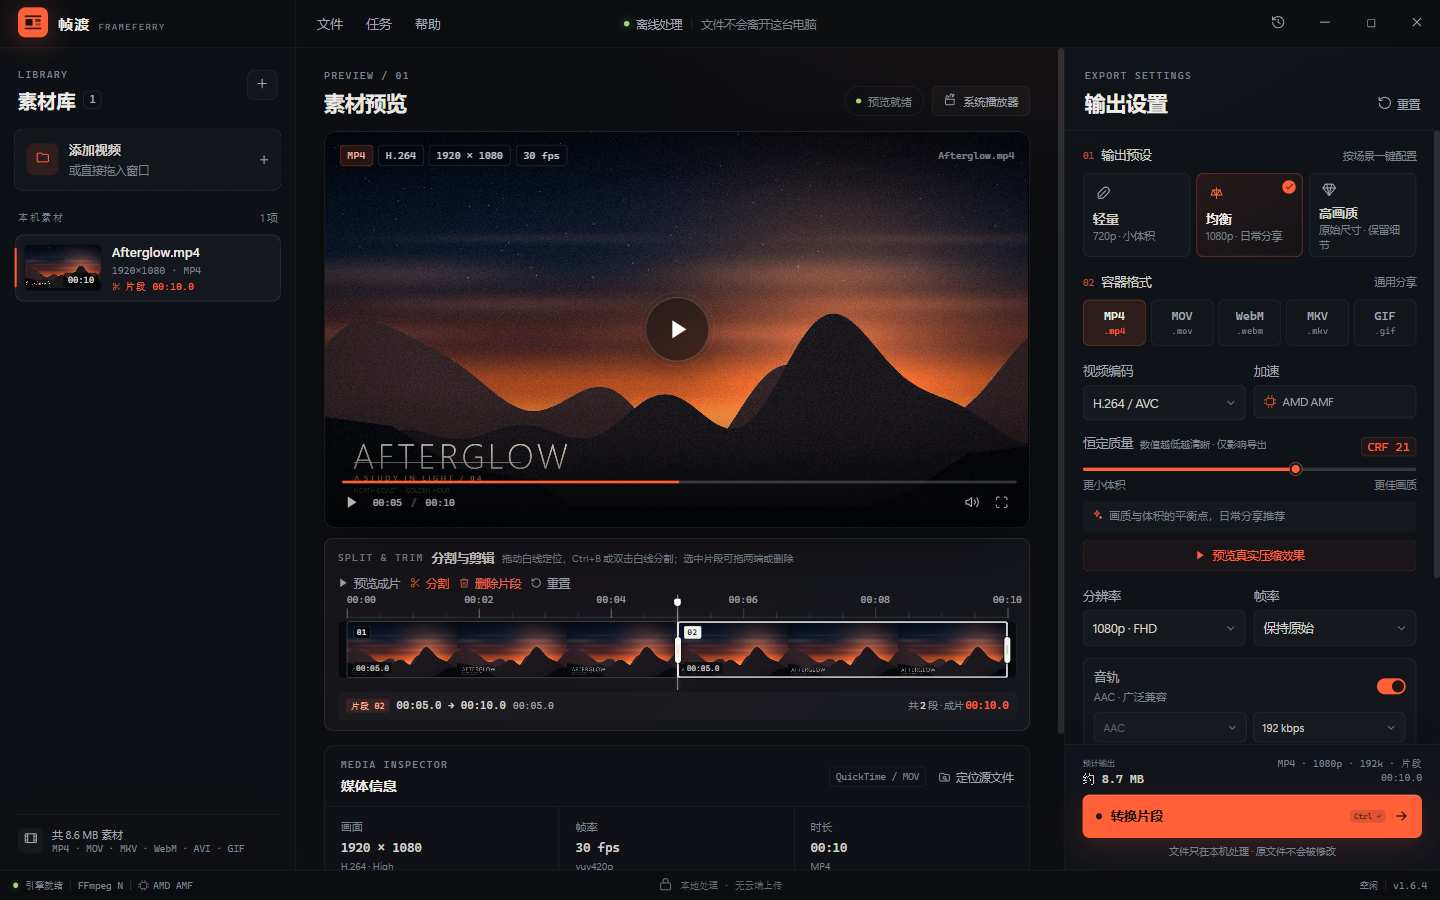
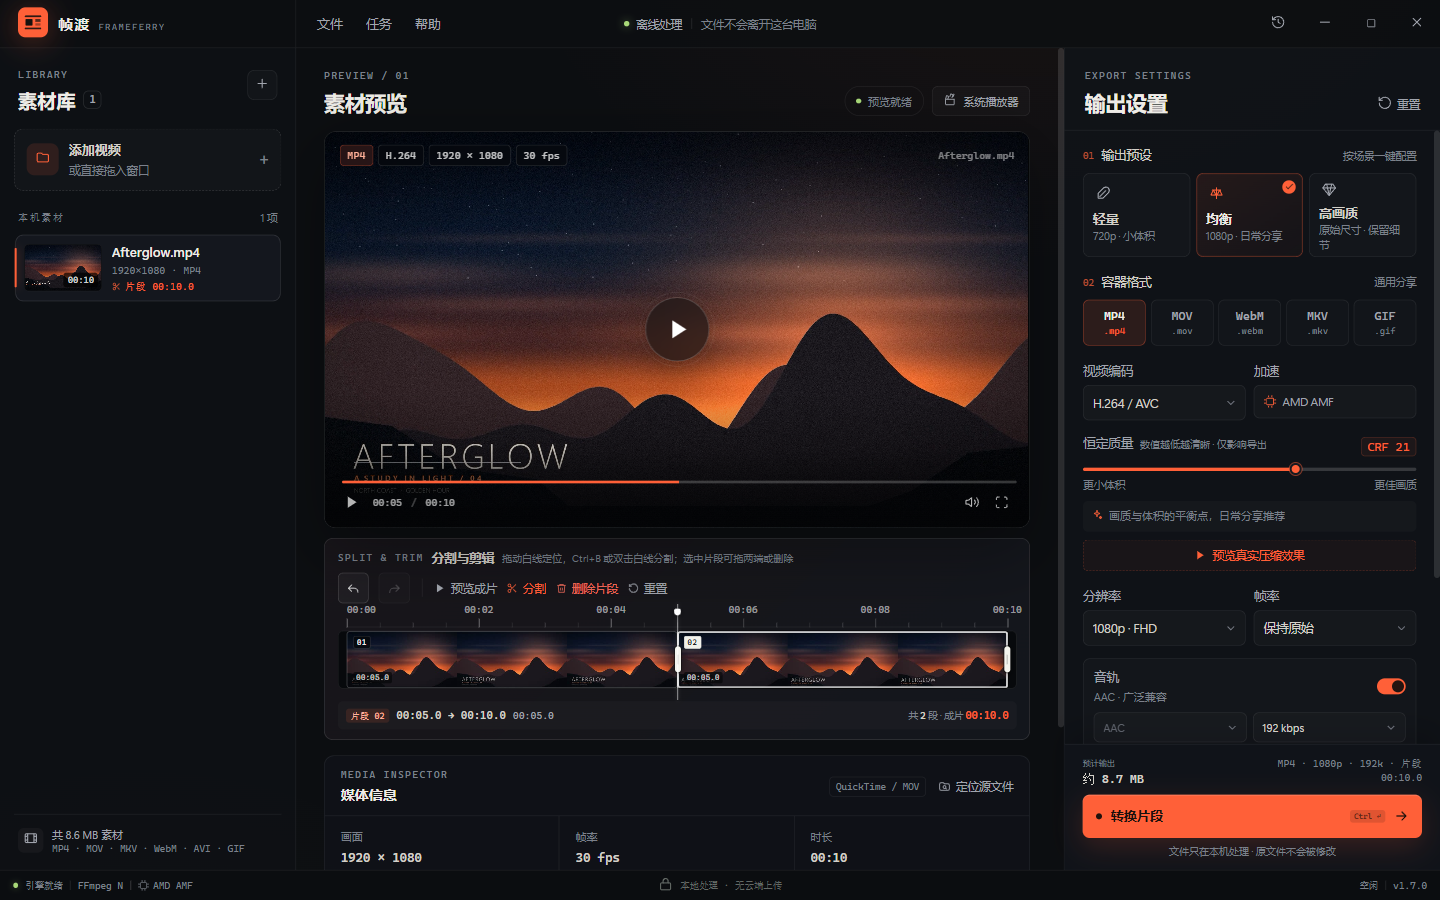
feat: 剪辑时间轴支持撤销重做
分割、删除、重置、拖拽裁剪进入每素材独立的 60 步历史；工具栏增加撤销/重做按钮，支持 Ctrl+Z / Ctrl+Shift+Z / Ctrl+Y。版本提升到 v1.7.0。

diff --git a/renderer/app.js b/renderer/app.js
@@ -19,6 +19,8 @@ const ICONS = {
   zap: '<path d="M13 2 4 14h7l-1 8 9-12h-7z"/>',
   hardDrive: '<rect x="2" y="4" width="20" height="16" rx="2"/><path d="M6 16h.01M10 16h.01M2 12h20"/>',
   rotate: '<path d="M3 12a9 9 0 1 0 3-6.7L3 8"/><path d="M3 3v5h5"/>',
+  undo: '<path d="m9 7-5 5 5 5"/><path d="M4 12h9a6 6 0 0 1 6 6v1"/>',
+  redo: '<path d="m15 7 5 5-5 5"/><path d="M20 12h-9a6 6 0 0 0-6 6v1"/>',
   sparkles: '<path d="m12 3-1.5 4.5L6 9l4.5 1.5L12 15l1.5-4.5L18 9l-4.5-1.5z"/><path d="m19 14-.8 2.2L16 17l2.2.8L19 20l.8-2.2L22 17l-2.2-.8z"/>',
   arrowRight: '<path d="M5 12h14M13 6l6 6-6 6"/>',
   history: '<path d="M3 12a9 9 0 1 0 3-6.7L3 8"/><path d="M3 3v5h5M12 7v5l3 2"/>',
@@ -731,6 +733,67 @@ function paintTrimPlayhead() {
   if (trimPlayhead) trimPlayhead.style.left = `${ratio * 100}%`
 }
 
+function ensureClipHistory(file) {
+  if (!file) return { undo: [], redo: [] }
+  if (!file.clipHistory || !Array.isArray(file.clipHistory.undo) || !Array.isArray(file.clipHistory.redo)) {
+    file.clipHistory = { undo: [], redo: [] }
+  }
+  return file.clipHistory
+}
+
+function clipStateSnapshot(file) {
+  const clips = Array.isArray(file.clips) && file.clips.length ? file.clips : ensureClips(file)
+  return {
+    clips: clips.map((clip) => ({ id: clip.id, start: clip.start, end: clip.end })),
+    selectedClipId: file.selectedClipId
+  }
+}
+
+function pushClipHistory(file) {
+  const history = ensureClipHistory(file)
+  history.undo.push(clipStateSnapshot(file))
+  if (history.undo.length > 60) history.undo.shift()
+  history.redo = []
+}
+
+function restoreClipState(file, state) {
+  file.clips = state.clips.map((clip) => ({ ...clip }))
+  file.selectedClipId = state.selectedClipId
+  const selected = ensureClips(file).find((clip) => clip.id === file.selectedClipId)
+  const video = $('#preview-video')
+  if (selected && video) {
+    video.pause()
+    try { video.currentTime = selected.start } catch {}
+    ui.currentTime = selected.start
+  }
+  renderTrimUI()
+  renderDock()
+  renderSourceRail()
+  paintTrimPlayhead()
+}
+
+function undoClip() {
+  const file = activeFile()
+  if (!file) return
+  const history = ensureClipHistory(file)
+  if (!history.undo.length) return
+  const current = clipStateSnapshot(file)
+  const state = history.undo.pop()
+  history.redo.push(current)
+  restoreClipState(file, state)
+}
+
+function redoClip() {
+  const file = activeFile()
+  if (!file) return
+  const history = ensureClipHistory(file)
+  if (!history.redo.length) return
+  const current = clipStateSnapshot(file)
+  const state = history.redo.pop()
+  history.undo.push(current)
+  restoreClipState(file, state)
+}
+
 function timelineRulerHtml(duration) {
   if (!(duration > 0)) return ''
   const target = duration / 6
@@ -767,6 +830,7 @@ function renderTrimUI() {
     return
   }
   const clips = ensureClips(file)
+  const history = ensureClipHistory(file)
   const duration = Number(info.duration) || 0
   const selectedIndex = Math.max(0, clips.findIndex((clip) => clip.id === file.selectedClipId))
   const selected = clips[selectedIndex] || clips[0]
@@ -816,6 +880,9 @@ function renderTrimUI() {
         <span class="trim-head-hint">拖动白线定位，Ctrl+B 或双击白线分割；选中片段可拖两端或删除</span>
       </div>
       <div class="trim-toolbar">
+        <button class="trim-history" data-clip-action="undo" title="撤销 (Ctrl+Z)" aria-label="撤销" ${history.undo.length ? '' : 'disabled'}>${icon('undo', 15)}</button>
+        <button class="trim-history" data-clip-action="redo" title="重做 (Ctrl+Shift+Z)" aria-label="重做" ${history.redo.length ? '' : 'disabled'}>${icon('redo', 15)}</button>
+        <span class="trim-toolbar-sep" aria-hidden="true"></span>
         <button class="text-button" data-clip-action="preview">${icon('play', 11)} 预览成片</button>
         <button class="text-button clip-split" data-clip-action="split">${icon('scissors', 11)} 分割</button>
         <button class="text-button clip-delete" data-clip-action="delete" ${clips.length <= 1 ? 'disabled' : ''}>${icon('trash', 11)} 删除片段</button>
@@ -930,6 +997,9 @@ function handleClipAction(action) {
     renderSourceRail()
   }
 
+  if (action === 'undo') { undoClip(); return }
+  if (action === 'redo') { redoClip(); return }
+
   if (action === 'preview') {
     if (!video) return
     video.pause()
@@ -949,6 +1019,7 @@ function handleClipAction(action) {
     }
     const source = clips[index]
     const right = { id: makeClipId(), start: time, end: source.end }
+    pushClipHistory(file)
     source.end = time
     clips.splice(index + 1, 0, right)
     file.selectedClipId = right.id
@@ -966,6 +1037,7 @@ function handleClipAction(action) {
     }
     const index = clips.findIndex((clip) => clip.id === file.selectedClipId)
     if (index < 0) return
+    pushClipHistory(file)
     clips.splice(index, 1)
     const next = clips[Math.min(index, clips.length - 1)]
     file.selectedClipId = next.id
@@ -977,6 +1049,7 @@ function handleClipAction(action) {
   }
 
   if (action === 'reset') {
+    pushClipHistory(file)
     file.clips = [{ id: makeClipId(), start: 0, end: Number(file.info.duration) || 0 }]
     file.selectedClipId = file.clips[0].id
     if (video) { video.pause(); video.currentTime = 0 }
@@ -1593,7 +1666,8 @@ function historyModalHtml() {
 function shortcutsModalHtml() {
   const rows = [
     ['添加视频', ['Ctrl', 'O']], ['开始转换', ['Ctrl', 'Enter']], ['播放 / 暂停预览', ['Space']],
-    ['在播放头处分割片段', ['Ctrl', 'B']], ['拖动白线定位', ['鼠标拖动']], ['双击白线分割', ['双击']],
+    ['在播放头处分割片段', ['Ctrl', 'B']], ['撤销剪辑操作', ['Ctrl', 'Z']], ['重做剪辑操作', ['Ctrl', 'Shift', 'Z']],
+    ['拖动白线定位', ['鼠标拖动']], ['双击白线分割', ['双击']],
     ['关闭菜单或弹窗', ['Esc']], ['最小化窗口', ['Alt', 'Space']]
   ]
   return `<div class="modal-backdrop"><div class="modal" style="width:520px" role="dialog" aria-modal="true">
@@ -1797,6 +1871,7 @@ function bindEvents() {
       tip.textContent = formatTrimTime(clip.end - clip.start)
       tip.style.left = `${tipPosition()}%`
     }
+    let historyPushed = false
     const refresh = () => {
       const left = duration ? (clip.start / duration) * 100 : 0
       block.style.left = `${left}%`
@@ -1817,6 +1892,10 @@ function bindEvents() {
     }
     const move = (pointerEvent) => {
       const time = timeAt(pointerEvent)
+      if (!historyPushed) {
+        pushClipHistory(file)
+        historyPushed = true
+      }
       if (which === 'start') {
         clip.start = Math.max(prevEnd, Math.min(time, clip.end - 0.2))
       } else {
@@ -1969,6 +2048,21 @@ function bindEvents() {
     }
     if ((event.ctrlKey || event.metaKey) && event.key === 'Enter') {
       event.preventDefault(); if (!state.modal) void startConversion(); return
+    }
+    if ((event.ctrlKey || event.metaKey) && event.key.toLowerCase() === 'z') {
+      if (state.modal) return
+      if (event.target?.closest?.('input, select, textarea, [contenteditable="true"]')) return
+      event.preventDefault()
+      if (event.shiftKey) redoClip()
+      else undoClip()
+      return
+    }
+    if ((event.ctrlKey || event.metaKey) && event.key.toLowerCase() === 'y') {
+      if (state.modal) return
+      if (event.target?.closest?.('input, select, textarea, [contenteditable="true"]')) return
+      event.preventDefault()
+      redoClip()
+      return
     }
     if ((event.ctrlKey || event.metaKey) && event.key.toLowerCase() === 'b') {
       if (state.modal) return

diff --git a/renderer/styles.css b/renderer/styles.css
@@ -4652,3 +4652,37 @@ input:focus-visible {
 .clip-timeline .trim-playhead {
   top: -27px;
 }
+
+/* ---------- Clip edit history ---------- */
+
+.trim-history {
+  width: 31px;
+  height: 31px;
+  display: grid;
+  place-items: center;
+  flex: none;
+  border: 1px solid rgba(255, 255, 255, 0.16);
+  border-radius: 5px;
+  background: rgba(255, 255, 255, 0.04);
+  color: rgba(255, 255, 255, 0.74);
+  transition: color 0.14s, border-color 0.14s, background 0.14s;
+}
+
+.trim-history:hover:not(:disabled) {
+  border-color: rgba(255, 255, 255, 0.32);
+  background: rgba(255, 255, 255, 0.09);
+  color: #fff;
+}
+
+.trim-history:disabled {
+  opacity: 0.28;
+  cursor: not-allowed;
+}
+
+.trim-toolbar-sep {
+  width: 1px;
+  height: 18px;
+  margin: 0 2px;
+  background: var(--line);
+  flex: none;
+}

diff --git a/README.md b/README.md
@@ -37,12 +37,12 @@ E:\FrameFerry\FrameFerry.exe
 
 - **素材库**：真实缩略图、时长与分辨率；单击切换，悬停移除；窗口任意位置拖入视频。
 - **工作台**：画面预览、自定义播放控制、媒体检查器。
-- **分割与剪辑**：打开素材后，剪辑时间轴默认显示，不需要再点「剪辑」进入模式；白色竖线就是分割位置，拖动白线定位后按 `Ctrl+B`、双击白线或点「分割」，视频会被拆成多个片段，切点会留下白色分割线。选中片段后，两端出现参考剪映的白色圆角手柄，拖动即可再次裁剪，拖动时显示长度气泡；也可直接删除片段。转换按钮变为「转换片段」，FFmpeg 只导出保留的片段并按顺序拼接。
+- **分割与剪辑**：打开素材后，剪辑时间轴默认显示，不需要再点「剪辑」进入模式；白色竖线就是分割位置，拖动白线定位后按 `Ctrl+B`、双击白线或点「分割」，视频会被拆成多个片段，切点会留下白色分割线。选中片段后，两端出现参考剪映的白色圆角手柄，拖动即可再次裁剪，拖动时显示长度气泡；也可直接删除片段。工具栏支持撤销/重做（`Ctrl+Z` / `Ctrl+Shift+Z` / `Ctrl+Y`）。转换按钮变为「转换片段」，FFmpeg 只导出保留的片段并按顺序拼接。
 - **输出设置**：场景预设、容器/编码器联动、恒定质量、分辨率与帧率、音轨、高级选项。关闭音轨后预览同步静音；GIF 输出也会强制静音。CRF、分辨率和帧率只影响导出文件，原始预览不套用编码参数。
 - **真实压缩预览**：在质量设置下方点「预览真实压缩效果」，会按当前 CRF、分辨率、帧率和硬件编码器实际编码片段并播放；默认 10 秒，可切换 3/5/10/20 秒。拖动 CRF 或改分辨率/帧率时会自动重新编码。预览片段无声，专注画质对比。
 - **默认保存文件夹**：设置一次，后续新素材自动使用该目录；可随时更改或恢复「跟随源文件」。选择会写入本机 `settings.json`，重启后仍然有效。
 - **动作 Dock**：预计体积、主操作「开始转换」、当前/最近任务和进度常驻在视线内。
-- **桌面细节**：`Ctrl+O` 添加、`Ctrl+Enter` 转换、空格播放/暂停、`Esc` 关闭浮层；系统保存对话框；输出文件在资源管理器中定位。
+- **桌面细节**：`Ctrl+O` 添加、`Ctrl+Enter` 转换、空格播放/暂停、`Ctrl+Z` 撤销、`Ctrl+Shift+Z` 重做、`Esc` 关闭浮层；系统保存对话框；输出文件在资源管理器中定位。
 - **可读性**：中文控件字号 11–13px，辅助信息不低于 10px；深色界面的次要文字提高亮度，优先保证「看得清」而不是一味塞信息。
 - **GIF 稳定输出**：固定 12.5fps / 80ms 帧间隔（避免 15fps 被拆成 70/60ms 的节奏跳变），256 色全局调色板 + 稳定抖动。
 

diff --git a/docs/TEST_REPORT.md b/docs/TEST_REPORT.md
@@ -136,6 +136,8 @@
 | 分割线加高 | 缩略图条高 58px，分割线高 80.67px；上下各超出 12px；拖动后定位到 30% |
 | 时间标尺 | 10s 素材显示 00:00–00:10，每 2s 一个主刻度；标尺字号 10px；点击 50% 定位到 5.0s |
 | 标尺与分割线 | 分割线延伸到标尺顶部，总高 95.67px；在标尺上拖拽/点击仍可定位 |
+| 撤销/重做 | 5s 分割后 Ctrl+Z 回到 1 段，Ctrl+Shift+Z 回到 2 段；拖拽 5s→3s 后撤销回 5s |
+| 历史按钮 | 初始 undo/redo 均禁用；操作后对应按钮启用，60 步上限，新编辑清空 redo |
 | 分割与删除 MP4 | 在 3s、7s 分割后删除中间段，输出 6.000s，音画均保留 |
 | 分割片段再裁剪 | 把首段出点从 3.0s 拖到 2.5s，输出 5.500s |
 | 分割后 GIF | 保留 0–3s / 7–10s，输出 75 帧 / 6s / 全部 80ms |
